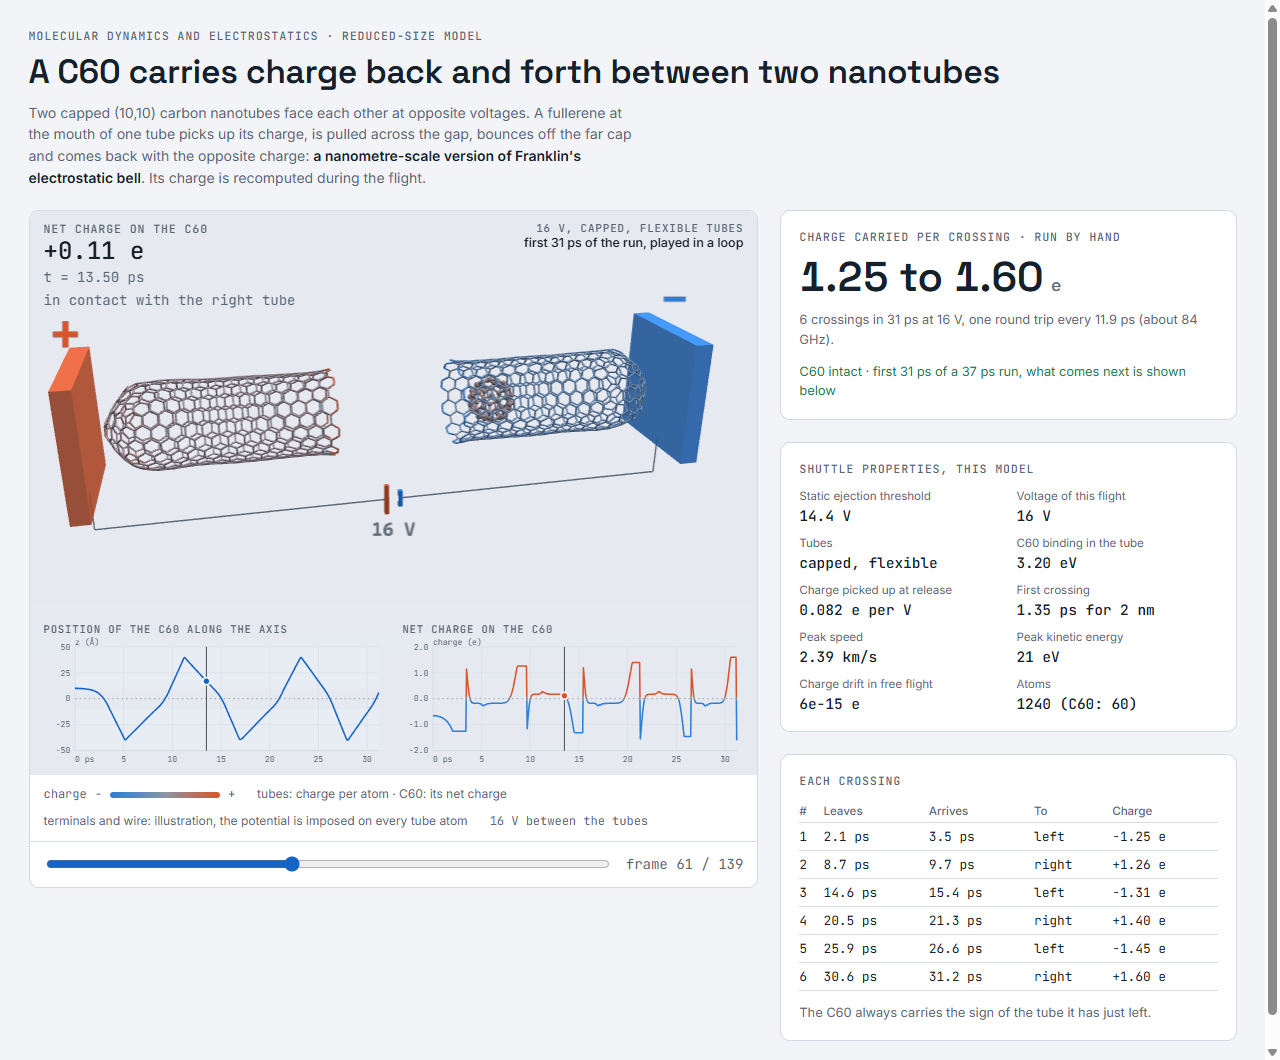
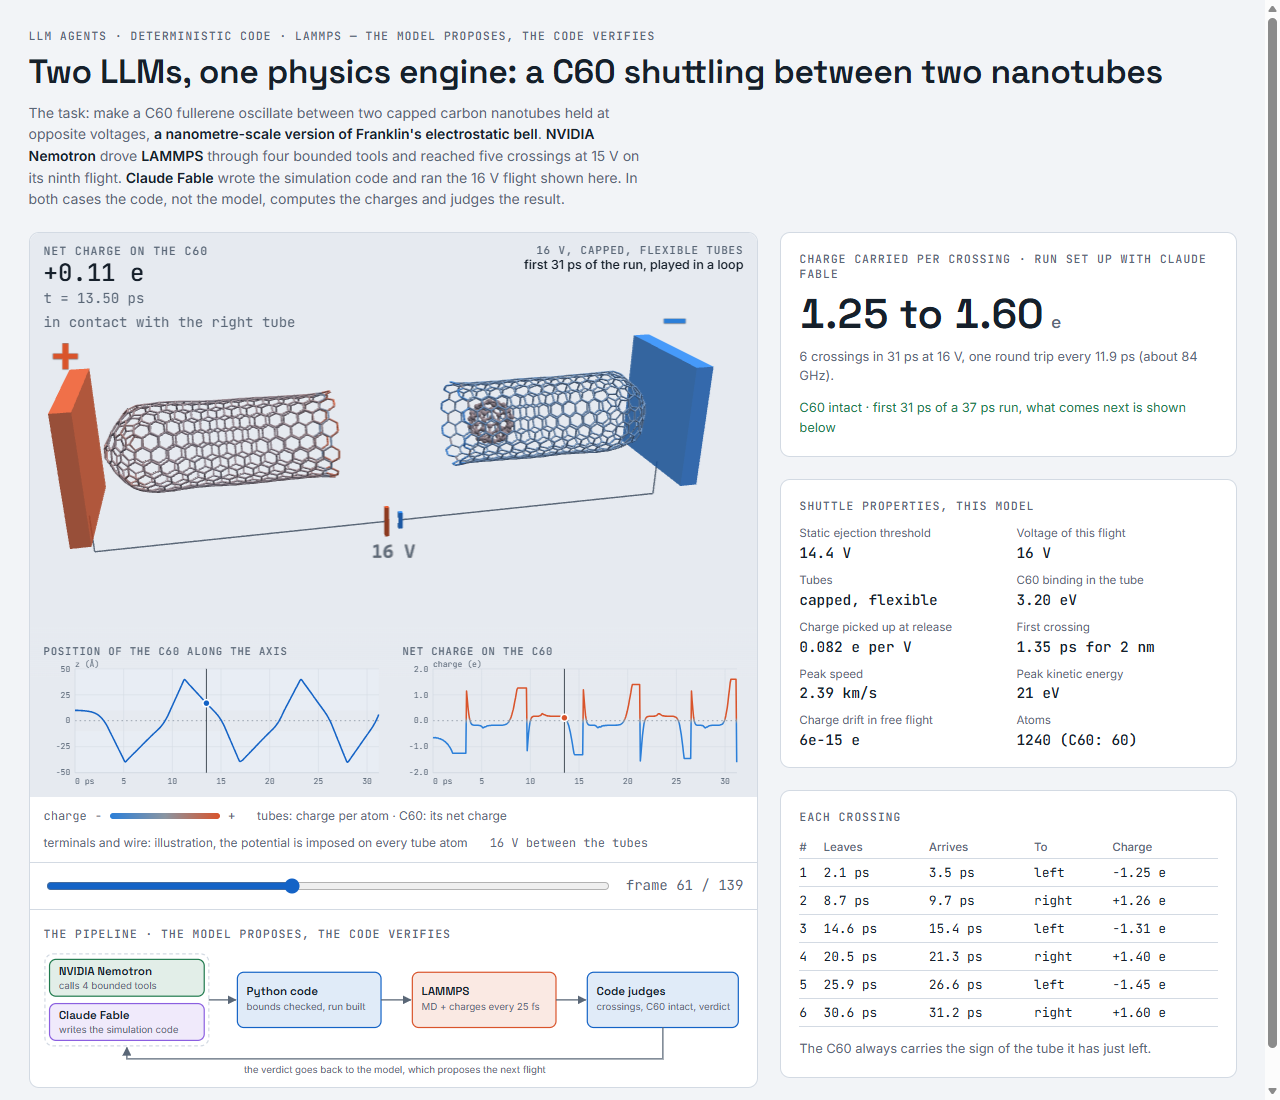
Fullerene page: header on the LLM + code + LAMMPS concept, pipeline diagram
The header now states the task and what each model did (Nemotron through
four bounded tools, Claude Fable writing the simulation code). A compact
pipeline diagram replaces the "Into a tube" view button.

diff --git a/docs/fullerene.html b/docs/fullerene.html
@@ -71,6 +71,12 @@ header { display: flex; flex-direction: column; gap: 10px }
 .steps span.done { background: var(--muted) } .steps span.on { background: var(--accent) }
 .steps span.hand { margin-left: 6px }
 .transport { display: flex; flex-wrap: wrap; align-items: center; gap: 10px 14px; padding: 12px 14px }
+.flow { border-top: 1px solid var(--line); padding: 12px 14px 10px; overflow-x: auto }
+.flow svg { display: block; width: 100%; min-width: 580px; height: auto; margin-top: 8px; font-family: var(--body) }
+.flow rect { fill: color-mix(in srgb, var(--c) 13%, var(--surface)); stroke: var(--c); stroke-width: 1.3 }
+.flow rect.group { fill: none; stroke: var(--line); stroke-dasharray: 4 3 }
+.flow .t { font: 600 12.5px var(--display); fill: var(--ink) } .flow .s { font-size: 10.5px; fill: var(--muted) }
+.flow .a { stroke: var(--muted); stroke-width: 1.4; fill: none; marker-end: url(#fl-a) } .flow .head { fill: var(--muted) }
 .transport input[type=range] { flex: 1 1 180px; min-width: 0; accent-color: var(--accent) }
 button, select { font: 500 0.82rem var(--body); color: var(--ink); background: var(--surface); border: 1px solid var(--line);
   border-radius: 7px; padding: 6px 12px; cursor: pointer }
@@ -125,11 +131,12 @@ footer { font-size: 0.78rem; color: var(--muted) }
 
 <div class="wrap">
   <header>
-    <span class="eyebrow">Molecular dynamics and electrostatics · reduced-size model</span>
-    <h1>A C60 carries charge back and forth between two nanotubes</h1>
-    <p class="lede">Two capped (10,10) carbon nanotubes face each other at opposite voltages. A fullerene at the mouth of one
-      tube picks up its charge, is pulled across the gap, bounces off the far cap and comes back with the opposite charge:
-      <b>a nanometre-scale version of Franklin's electrostatic bell</b>. Its charge is recomputed during the flight.</p>
+    <span class="eyebrow">LLM agents · deterministic code · LAMMPS — the model proposes, the code verifies</span>
+    <h1>Two LLMs, one physics engine: a C60 shuttling between two nanotubes</h1>
+    <p class="lede">The task: make a C60 fullerene oscillate between two capped carbon nanotubes held at opposite voltages,
+      <b>a nanometre-scale version of Franklin's electrostatic bell</b>. <b>NVIDIA Nemotron</b> drove <b>LAMMPS</b> through four bounded tools
+      and reached five crossings at 15 V on its ninth flight. <b>Claude Fable</b> wrote the simulation code and ran the 16 V flight shown here.
+      In both cases the code, not the model, computes the charges and judges the result.</p>
   </header>
 
   <section class="bench">
@@ -165,7 +172,27 @@ footer { font-size: 0.78rem; color: var(--muted) }
         </select>
         <button id="restart" type="button">Restart from flight 1</button>
         <button id="view-side" type="button">Side view</button>
-        <button id="view-axis" type="button">Into a tube</button>
+      </div>
+      <!-- le pipeline, en une carte : deux LLM en parallele, puis le code, puis LAMMPS, puis le code qui juge -->
+      <div class="flow">
+        <span class="eyebrow">The pipeline · the model proposes, the code verifies</span>
+        <svg viewBox="0 0 760 136" role="img" aria-label="Pipeline: NVIDIA Nemotron and Claude Fable in parallel, then Python code that checks and builds the run, then LAMMPS with the charge solver, then code that judges the flight; the verdict goes back to the model">
+          <defs><marker id="fl-a" viewBox="0 0 8 8" refX="7" refY="4" markerWidth="7" markerHeight="7" orient="auto"><path class="head" d="M0 0L8 4L0 8z"/></marker></defs>
+          <rect class="group" x="1" y="2" width="178" height="100" rx="9"/>
+          <g style="--c: var(--good)"><rect x="6" y="8" width="168" height="40" rx="7"/>
+            <text class="t" x="16" y="25">NVIDIA Nemotron</text><text class="s" x="16" y="40">calls 4 bounded tools</text></g>
+          <g style="--c: #8B5FE0"><rect x="6" y="56" width="168" height="40" rx="7"/>
+            <text class="t" x="16" y="73">Claude Fable</text><text class="s" x="16" y="88">writes the simulation code</text></g>
+          <g style="--c: var(--accent)"><rect x="210" y="22" width="156" height="60" rx="7"/>
+            <text class="t" x="220" y="47">Python code</text><text class="s" x="220" y="63">bounds checked, run built</text></g>
+          <g style="--c: var(--pos)"><rect x="400" y="22" width="156" height="60" rx="7"/>
+            <text class="t" x="410" y="47">LAMMPS</text><text class="s" x="410" y="63">MD + charges every 25 fs</text></g>
+          <g style="--c: var(--accent)"><rect x="590" y="22" width="164" height="60" rx="7"/>
+            <text class="t" x="600" y="47">Code judges</text><text class="s" x="600" y="63">crossings, C60 intact, verdict</text></g>
+          <path class="a" d="M179 52H208"/><path class="a" d="M366 52H398"/><path class="a" d="M556 52H588"/>
+          <path class="a" d="M672 82V116H90V104"/>
+          <text class="s" x="381" y="131" text-anchor="middle">the verdict goes back to the model, which proposes the next flight</text>
+        </svg>
       </div>
     </div>
 
@@ -214,7 +241,7 @@ footer { font-size: 0.78rem; color: var(--muted) }
     <h2>What the LLM tried on this task</h2>
     <p class="lede">Request in runs 1 and 2: find the lowest voltage that takes the C60 from one tube to the other without breaking it, starting at the mouth.
       Runs 3 and 4 were asked to make it oscillate, at least three crossings, with ten flights of up to 30 ps; run 4 was told the three crossings had to be in one long flight.
-      Four bounded tools, and the verdict of each flight is written by the code, not by the model. The animation at the top is not one of these flights: it is the 16 V run done by hand.</p>
+      Four bounded tools, and the verdict of each flight is written by the code, not by the model. The animation at the top is not one of these flights: it is the 16 V run set up with Claude Fable, which had the simulation code in hand and no flight budget.</p>
     <div class="agent-grid" id="agent-grid"></div>
     <p class="note"><b>Run 1</b>: the model answered 14.2 V. That was wrong, and the fault was in the judge: a flight cut off while the C60 was still crossing counted as a failure, and "crossed, intact" did not require the C60 to be stopped in the arrival tube.
       <b>Run 2</b>, judge hardened: the model read each verdict and changed one parameter at a time, ran out of flights, and reported that it had found no working voltage. It invented no number.
@@ -280,7 +307,7 @@ $("t-note").textContent = "The C60 always carries the sign of the tube it has ju
 function side() {
   const XA = X.filter(c => c.on_axis !== false), NOFF = X.length - XA.length;   /* traversees dans l'axe / rebonds sur les bords */
   const qs = XA.map(c => Math.abs(c.q_e));
-  document.querySelector(".side .card .eyebrow").textContent = "Charge carried per crossing · " + (STORY[SI] ? "this LLM flight" : "run by hand");
+  document.querySelector(".side .card .eyebrow").textContent = "Charge carried per crossing · " + (STORY[SI] ? "this LLM flight" : "run set up with Claude Fable");
   $("v-q").textContent = qs.length ? (qs.length > 1 ? fx(Math.min(...qs), 2) + " to " + fx(Math.max(...qs), 2) : fx(qs[0], 2)) : "none";
   $("v-note").textContent = XA.length + " crossing" + (XA.length === 1 ? "" : "s") + (NOFF ? " on the axis, then " + NOFF + " bounces off the tube rims," : "")
     + " in " + fx(R.clip_ps || R.simulated_ps, 0) + " ps at " + volt(R.voltage_V) + " V"
@@ -369,7 +396,7 @@ function charts() {
   const full = Lg.crossings.filter(c => iM < 0 || c.release_ps < xs[iM]).length;
   $("long-note").textContent = iM < 0
     ? "Over " + fx(Lg.simulated_ps, 0) + " ps at " + volt(Lg.voltage_V) + " V the C60 stayed within " + fx(Math.max(...ys), 1) + " Å of the axis: " + full + " crossings. One run."
-    : "This " + volt(Lg.voltage_V) + " V run, done by hand and asked for " + fx(Lg.asked_ps, 0) + " ps, " + (early ? "stopped at " : "ran to ") + fx(Lg.simulated_ps, 0) + " ps. After " + full
+    : "This " + volt(Lg.voltage_V) + " V run, set up with Claude Fable and asked for" + fx(Lg.asked_ps, 0) + " ps, " + (early ? "stopped at " : "ran to ") + fx(Lg.simulated_ps, 0) + " ps. After " + full
       + " crossings the C60 has drifted off the axis (from about " + fx(xs[iD], 0) + " ps) and misses the tube mouth at about " + fx(xs[iM], 0)
       + " ps; it then bounces off the rims, carrying up to " + fx(Math.max(...Lg.crossings.map(c => Math.abs(c.q_e))), 1)
       + " e, and leaves sideways. One run: another seed could drift sooner, later or not at all.";
@@ -576,7 +603,6 @@ const scene3d = (function () {
   canvas.addEventListener("pointercancel", () => { drag = null; });
   canvas.addEventListener("wheel", e => { e.preventDefault(); dist = Math.max(span * 0.15, Math.min(span * 4, dist * Math.exp(e.deltaY * 0.001))); render(); }, { passive: false });
   $("view-side").addEventListener("click", () => { az = -0.22; pol = 1.2; dist = span * 1.3; render(); });
-  $("view-axis").addEventListener("click", () => { az = -1.25; pol = 1.35; dist = span * 0.8; render(); });
   new ResizeObserver(resize).observe(stage);
   const retheme = () => { theme(); draw3d(cur); };
   matchMedia("(prefers-color-scheme: dark)").addEventListener("change", retheme);

diff --git a/viewer/fullerene_template.html b/viewer/fullerene_template.html
@@ -64,6 +64,12 @@ header { display: flex; flex-direction: column; gap: 10px }
 .steps span.done { background: var(--muted) } .steps span.on { background: var(--accent) }
 .steps span.hand { margin-left: 6px }
 .transport { display: flex; flex-wrap: wrap; align-items: center; gap: 10px 14px; padding: 12px 14px }
+.flow { border-top: 1px solid var(--line); padding: 12px 14px 10px; overflow-x: auto }
+.flow svg { display: block; width: 100%; min-width: 580px; height: auto; margin-top: 8px; font-family: var(--body) }
+.flow rect { fill: color-mix(in srgb, var(--c) 13%, var(--surface)); stroke: var(--c); stroke-width: 1.3 }
+.flow rect.group { fill: none; stroke: var(--line); stroke-dasharray: 4 3 }
+.flow .t { font: 600 12.5px var(--display); fill: var(--ink) } .flow .s { font-size: 10.5px; fill: var(--muted) }
+.flow .a { stroke: var(--muted); stroke-width: 1.4; fill: none; marker-end: url(#fl-a) } .flow .head { fill: var(--muted) }
 .transport input[type=range] { flex: 1 1 180px; min-width: 0; accent-color: var(--accent) }
 button, select { font: 500 0.82rem var(--body); color: var(--ink); background: var(--surface); border: 1px solid var(--line);
   border-radius: 7px; padding: 6px 12px; cursor: pointer }
@@ -118,11 +124,12 @@ footer { font-size: 0.78rem; color: var(--muted) }
 
 <div class="wrap">
   <header>
-    <span class="eyebrow">Molecular dynamics and electrostatics · reduced-size model</span>
-    <h1>A C60 carries charge back and forth between two nanotubes</h1>
-    <p class="lede">Two capped (10,10) carbon nanotubes face each other at opposite voltages. A fullerene at the mouth of one
-      tube picks up its charge, is pulled across the gap, bounces off the far cap and comes back with the opposite charge:
-      <b>a nanometre-scale version of Franklin's electrostatic bell</b>. Its charge is recomputed during the flight.</p>
+    <span class="eyebrow">LLM agents · deterministic code · LAMMPS — the model proposes, the code verifies</span>
+    <h1>Two LLMs, one physics engine: a C60 shuttling between two nanotubes</h1>
+    <p class="lede">The task: make a C60 fullerene oscillate between two capped carbon nanotubes held at opposite voltages,
+      <b>a nanometre-scale version of Franklin's electrostatic bell</b>. <b>NVIDIA Nemotron</b> drove <b>LAMMPS</b> through four bounded tools
+      and reached five crossings at 15 V on its ninth flight. <b>Claude Fable</b> wrote the simulation code and ran the 16 V flight shown here.
+      In both cases the code, not the model, computes the charges and judges the result.</p>
   </header>
 
   <section class="bench">
@@ -158,7 +165,27 @@ footer { font-size: 0.78rem; color: var(--muted) }
         </select>
         <button id="restart" type="button">Restart from flight 1</button>
         <button id="view-side" type="button">Side view</button>
-        <button id="view-axis" type="button">Into a tube</button>
+      </div>
+      <!-- le pipeline, en une carte : deux LLM en parallele, puis le code, puis LAMMPS, puis le code qui juge -->
+      <div class="flow">
+        <span class="eyebrow">The pipeline · the model proposes, the code verifies</span>
+        <svg viewBox="0 0 760 136" role="img" aria-label="Pipeline: NVIDIA Nemotron and Claude Fable in parallel, then Python code that checks and builds the run, then LAMMPS with the charge solver, then code that judges the flight; the verdict goes back to the model">
+          <defs><marker id="fl-a" viewBox="0 0 8 8" refX="7" refY="4" markerWidth="7" markerHeight="7" orient="auto"><path class="head" d="M0 0L8 4L0 8z"/></marker></defs>
+          <rect class="group" x="1" y="2" width="178" height="100" rx="9"/>
+          <g style="--c: var(--good)"><rect x="6" y="8" width="168" height="40" rx="7"/>
+            <text class="t" x="16" y="25">NVIDIA Nemotron</text><text class="s" x="16" y="40">calls 4 bounded tools</text></g>
+          <g style="--c: #8B5FE0"><rect x="6" y="56" width="168" height="40" rx="7"/>
+            <text class="t" x="16" y="73">Claude Fable</text><text class="s" x="16" y="88">writes the simulation code</text></g>
+          <g style="--c: var(--accent)"><rect x="210" y="22" width="156" height="60" rx="7"/>
+            <text class="t" x="220" y="47">Python code</text><text class="s" x="220" y="63">bounds checked, run built</text></g>
+          <g style="--c: var(--pos)"><rect x="400" y="22" width="156" height="60" rx="7"/>
+            <text class="t" x="410" y="47">LAMMPS</text><text class="s" x="410" y="63">MD + charges every 25 fs</text></g>
+          <g style="--c: var(--accent)"><rect x="590" y="22" width="164" height="60" rx="7"/>
+            <text class="t" x="600" y="47">Code judges</text><text class="s" x="600" y="63">crossings, C60 intact, verdict</text></g>
+          <path class="a" d="M179 52H208"/><path class="a" d="M366 52H398"/><path class="a" d="M556 52H588"/>
+          <path class="a" d="M672 82V116H90V104"/>
+          <text class="s" x="381" y="131" text-anchor="middle">the verdict goes back to the model, which proposes the next flight</text>
+        </svg>
       </div>
     </div>
 
@@ -207,7 +234,7 @@ footer { font-size: 0.78rem; color: var(--muted) }
     <h2>What the LLM tried on this task</h2>
     <p class="lede">Request in runs 1 and 2: find the lowest voltage that takes the C60 from one tube to the other without breaking it, starting at the mouth.
       Runs 3 and 4 were asked to make it oscillate, at least three crossings, with ten flights of up to 30 ps; run 4 was told the three crossings had to be in one long flight.
-      Four bounded tools, and the verdict of each flight is written by the code, not by the model. The animation at the top is not one of these flights: it is the 16 V run done by hand.</p>
+      Four bounded tools, and the verdict of each flight is written by the code, not by the model. The animation at the top is not one of these flights: it is the 16 V run set up with Claude Fable, which had the simulation code in hand and no flight budget.</p>
     <div class="agent-grid" id="agent-grid"></div>
     <p class="note"><b>Run 1</b>: the model answered 14.2 V. That was wrong, and the fault was in the judge: a flight cut off while the C60 was still crossing counted as a failure, and "crossed, intact" did not require the C60 to be stopped in the arrival tube.
       <b>Run 2</b>, judge hardened: the model read each verdict and changed one parameter at a time, ran out of flights, and reported that it had found no working voltage. It invented no number.
@@ -273,7 +300,7 @@ $("t-note").textContent = "The C60 always carries the sign of the tube it has ju
 function side() {
   const XA = X.filter(c => c.on_axis !== false), NOFF = X.length - XA.length;   /* traversees dans l'axe / rebonds sur les bords */
   const qs = XA.map(c => Math.abs(c.q_e));
-  document.querySelector(".side .card .eyebrow").textContent = "Charge carried per crossing · " + (STORY[SI] ? "this LLM flight" : "run by hand");
+  document.querySelector(".side .card .eyebrow").textContent = "Charge carried per crossing · " + (STORY[SI] ? "this LLM flight" : "run set up with Claude Fable");
   $("v-q").textContent = qs.length ? (qs.length > 1 ? fx(Math.min(...qs), 2) + " to " + fx(Math.max(...qs), 2) : fx(qs[0], 2)) : "none";
   $("v-note").textContent = XA.length + " crossing" + (XA.length === 1 ? "" : "s") + (NOFF ? " on the axis, then " + NOFF + " bounces off the tube rims," : "")
     + " in " + fx(R.clip_ps || R.simulated_ps, 0) + " ps at " + volt(R.voltage_V) + " V"
@@ -362,7 +389,7 @@ function charts() {
   const full = Lg.crossings.filter(c => iM < 0 || c.release_ps < xs[iM]).length;
   $("long-note").textContent = iM < 0
     ? "Over " + fx(Lg.simulated_ps, 0) + " ps at " + volt(Lg.voltage_V) + " V the C60 stayed within " + fx(Math.max(...ys), 1) + " Å of the axis: " + full + " crossings. One run."
-    : "This " + volt(Lg.voltage_V) + " V run, done by hand and asked for " + fx(Lg.asked_ps, 0) + " ps, " + (early ? "stopped at " : "ran to ") + fx(Lg.simulated_ps, 0) + " ps. After " + full
+    : "This " + volt(Lg.voltage_V) + " V run, set up with Claude Fable and asked for" + fx(Lg.asked_ps, 0) + " ps, " + (early ? "stopped at " : "ran to ") + fx(Lg.simulated_ps, 0) + " ps. After " + full
       + " crossings the C60 has drifted off the axis (from about " + fx(xs[iD], 0) + " ps) and misses the tube mouth at about " + fx(xs[iM], 0)
       + " ps; it then bounces off the rims, carrying up to " + fx(Math.max(...Lg.crossings.map(c => Math.abs(c.q_e))), 1)
       + " e, and leaves sideways. One run: another seed could drift sooner, later or not at all.";
@@ -569,7 +596,6 @@ const scene3d = (function () {
   canvas.addEventListener("pointercancel", () => { drag = null; });
   canvas.addEventListener("wheel", e => { e.preventDefault(); dist = Math.max(span * 0.15, Math.min(span * 4, dist * Math.exp(e.deltaY * 0.001))); render(); }, { passive: false });
   $("view-side").addEventListener("click", () => { az = -0.22; pol = 1.2; dist = span * 1.3; render(); });
-  $("view-axis").addEventListener("click", () => { az = -1.25; pol = 1.35; dist = span * 0.8; render(); });
   new ResizeObserver(resize).observe(stage);
   const retheme = () => { theme(); draw3d(cur); };
   matchMedia("(prefers-color-scheme: dark)").addEventListener("change", retheme);
